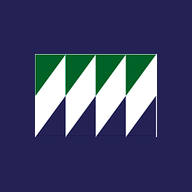
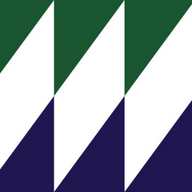
Add files via upload

diff --git a/index.html b/index.html
@@ -4,12 +4,20 @@
 <meta charset="utf-8">
 <meta name="viewport" content="width=device-width, initial-scale=1, viewport-fit=cover">
 <meta name="theme-color" content="#242254">
-<meta name="apple-mobile-web-app-capable" content="yes">
-<meta name="mobile-web-app-capable" content="yes">
-<meta name="apple-mobile-web-app-title" content="Contadores PST">
-<link rel="manifest" href="manifest.json">
-<link rel="apple-touch-icon" href="icon-192.png">
 <title>Lecturas de Contadores — Puerto Sotogrande</title>
[1 lines of base64/hex data omitted]
+<link rel="icon" href="favicon.ico" sizes="any">
+<link rel="apple-touch-icon" href="apple-touch-icon.png">
+<link rel="icon" type="image/png" sizes="192x192" href="icon-192.png">
+<link rel="manifest" href="manifest.json">
+<meta name="description" content="Lecturas de contadores de luz y agua por atraque — Puerto Sotogrande">
+<meta property="og:type" content="website">
+<meta property="og:title" content="Lecturas de Contadores — Puerto Sotogrande">
+<meta property="og:description" content="Lecturas de contadores de luz y agua por atraque">
+<meta property="og:image" content="og-image.png">
+<meta property="og:image:width" content="512">
+<meta property="og:image:height" content="512">
+<meta name="twitter:card" content="summary">
 <style>
 :root{
   --navy:#242254; --navy-2:#332f74; --sea:#006227; --sea-dark:#00431b;
@@ -165,6 +173,12 @@ main{background:var(--c-sand);color:var(--c-navy);font-family:var(--f-body);padd
 .obs-btn.has{background:#fff;color:var(--c-navy);}
 .obs-l{letter-spacing:.08em;color:var(--c-muted);}
 .empty{font-family:var(--f-body);color:var(--c-muted);}
+main .zone-header{align-items:flex-start;}
+main .zone-side{display:flex;flex-direction:column;align-items:flex-end;gap:6px;margin-left:auto;}
+main .order-btn{border:none;border-radius:6px;padding:6px 12px;font-size:12px;font-weight:600;background:#20305a;color:#fff;
+  font-family:"Manrope",-apple-system,sans-serif;letter-spacing:.02em;cursor:pointer;-webkit-tap-highlight-color:transparent;}
+main .order-btn.desc{background:#1a5632;}
+main .order-btn:active{transform:translateY(1px);}
 /* ===== Zona de atraques: diseño corporativo claro (como Gestor PST Corporativo) ===== */
 main{background:#e2e2e2;color:#20305a;font-family:"Manrope",-apple-system,BlinkMacSystemFont,"Segoe UI",Roboto,sans-serif;padding:18px 16px;color-scheme:light;}
 main .zone-title{font-family:"DM Serif Display",Georgia,"Times New Roman",serif;font-weight:400;font-size:26px;letter-spacing:-.5px;color:#20305a;line-height:1.1;}
@@ -234,11 +248,11 @@ var DEF=[["Muelle Espera",1,2],["Dique Levante",3,28],["Pantalán 1",29,53],["Pa
  ["Pantalán 5 Babor",352,378],["Muelle Ribera",379,401],["Muelle Contradique",402,412],["Pantalán 6",413,423],
  ["Contradique Gasolinera",534,541],["Pantalán 10",542,548],["Extra",["Junto gasolinera","Delfín 24","Punta Barbesula"]]];
 function defBlocks(){return DEF.map(function(d,i){return Array.isArray(d[1])?{id:"b"+i,name:d[0],items:d[1].slice()}:{id:"b"+i,name:d[0],from:d[1],to:d[2]};});}
-var st={blocks:defBlocks(),data:{},cur:"b0",scroll:{}};
-try{var raw=localStorage.getItem(KEY);if(raw){var p=JSON.parse(raw);if(p){st.data=p.data||{};if(p.cur)st.cur=p.cur;}}}catch(e){}
+var st={blocks:defBlocks(),data:{},cur:"b0",scroll:{},order:{}};
+try{var raw=localStorage.getItem(KEY);if(raw){var p=JSON.parse(raw);if(p){st.data=p.data||{};if(p.cur)st.cur=p.cur;st.order=p.order||{};}}}catch(e){}
 st.blocks.forEach(function(b){if(b.name==="Pantalán 5 Babor"&&b.from===319&&b.to===378)b.from=352;});
 if(!st.blocks.some(function(b){return b.id===st.cur;}))st.cur=st.blocks[0].id;
-var saveT;function save(){clearTimeout(saveT);saveT=setTimeout(function(){try{localStorage.setItem(KEY,JSON.stringify({blocks:st.blocks,data:st.data,cur:st.cur}));}catch(e){}},250);}
+var saveT;function save(){clearTimeout(saveT);saveT=setTimeout(function(){try{localStorage.setItem(KEY,JSON.stringify({blocks:st.blocks,data:st.data,cur:st.cur,order:st.order}));}catch(e){}},250);}
 function $(id){return document.getElementById(id);}
 function esc(s){return String(s==null?"":s).replace(/[&<>"']/g,function(c){return{"&":"&amp;","<":"&lt;",">":"&gt;",'"':"&quot;","'":"&#39;"}[c];});}
 function nums(b){if(b.items)return b.items.slice();var a=[],f=Math.min(b.from,b.to),t=Math.max(b.from,b.to);for(var i=f;i<=t;i++)a.push(i);return a;}
@@ -265,8 +279,8 @@ function obsBtn(o){return o&&String(o).trim()?'<button type="button" class="obs-
 function renderMain(){
  var b=st.blocks.find(function(x){return x.id===st.cur;});
  if(!b){$("main").innerHTML='<div class="empty">No hay bloques. </div>';return;}
- var s=stats(b),ns=nums(b);
- var h='<div class="zone-header"><div><div class="zone-title">'+esc(b.name)+'</div><div class="zone-sub">'+(b.items?b.items.length+' puntos':'Atraques '+Math.min(b.from,b.to)+' – '+Math.max(b.from,b.to))+'</div></div><div class="zone-sub" id="zoneProg">'+s.d+' de '+s.t+' completos</div></div><div class="list">';
+ var s=stats(b),ns=nums(b),desc=!!(st.order&&st.order[b.id]);if(desc)ns=ns.slice().reverse();
+ var h='<div class="zone-header"><div><div class="zone-title">'+esc(b.name)+'</div><div class="zone-sub">'+(b.items?b.items.length+' puntos':'Atraques '+Math.min(b.from,b.to)+' – '+Math.max(b.from,b.to))+'</div></div><div class="zone-side"><div class="zone-sub" id="zoneProg">'+s.d+' de '+s.t+' completos</div><button type="button" class="order-btn'+(desc?' desc':'')+'" id="orderBtn">'+(desc?'Orden Descend.':'Orden Ascend.')+'</button></div></div><div class="list">';
  ns.forEach(function(n){var r=rec(b.id,n);
   h+='<div class="card'+(isFull(r)?' full':'')+(b.items?' lbl':'')+'" data-n="'+esc(n)+'">'+
    '<div class="num">'+esc(n)+'</div>'+
@@ -288,7 +302,7 @@ $("main").addEventListener("input",function(e){var inp=e.target;if(!inp.dataset.
  card.classList.toggle("full",isFull(r));updateTab(st.cur);renderTotals();save();});
 $("main").addEventListener("keydown",function(e){if(e.key!=="Enter")return;if(e.target.dataset.f==="o"){e.preventDefault();e.target.blur();return;}var all=[].slice.call($("main").querySelectorAll("input.n"));var i=all.indexOf(e.target);
  if(i>-1){e.preventDefault();if(all[i+1]){all[i+1].focus();all[i+1].scrollIntoView({block:"center",behavior:"smooth"});}else e.target.blur();}});
-$("main").addEventListener("click",function(e){var bt=e.target.closest(".obs-btn");if(!bt)return;var card=bt.closest(".card");var r=rec(st.cur,card.dataset.n);
+$("main").addEventListener("click",function(e){if(e.target.closest("#orderBtn")){st.order[st.cur]=!st.order[st.cur];st.scroll[st.cur]=0;save();renderMain();return;}var bt=e.target.closest(".obs-btn");if(!bt)return;var card=bt.closest(".card");var r=rec(st.cur,card.dataset.n);
  var box=bt.parentNode;box.innerHTML='<label>Observaciones</label><input data-f="o" type="text" autocomplete="off" autocapitalize="sentences" enterkeyhint="done" value="'+esc(r.o)+'">';
  var inp=box.querySelector("input");inp.focus();var L=inp.value.length;try{inp.setSelectionRange(L,L);}catch(_){}
  inp.addEventListener("blur",function(){var rr=rec(st.cur,card.dataset.n);box.innerHTML=obsBtn(rr.o);},{once:true});});
@@ -405,7 +419,6 @@ var tt;function toast(m){var t=$("toast");t.textContent=m;t.classList.add("show"
 
 render();
 })();
-if("serviceWorker" in navigator && location.protocol==="https:"){window.addEventListener("load",function(){navigator.serviceWorker.register("sw.js").catch(function(){});});}
 </script>
 </body>
 </html>
